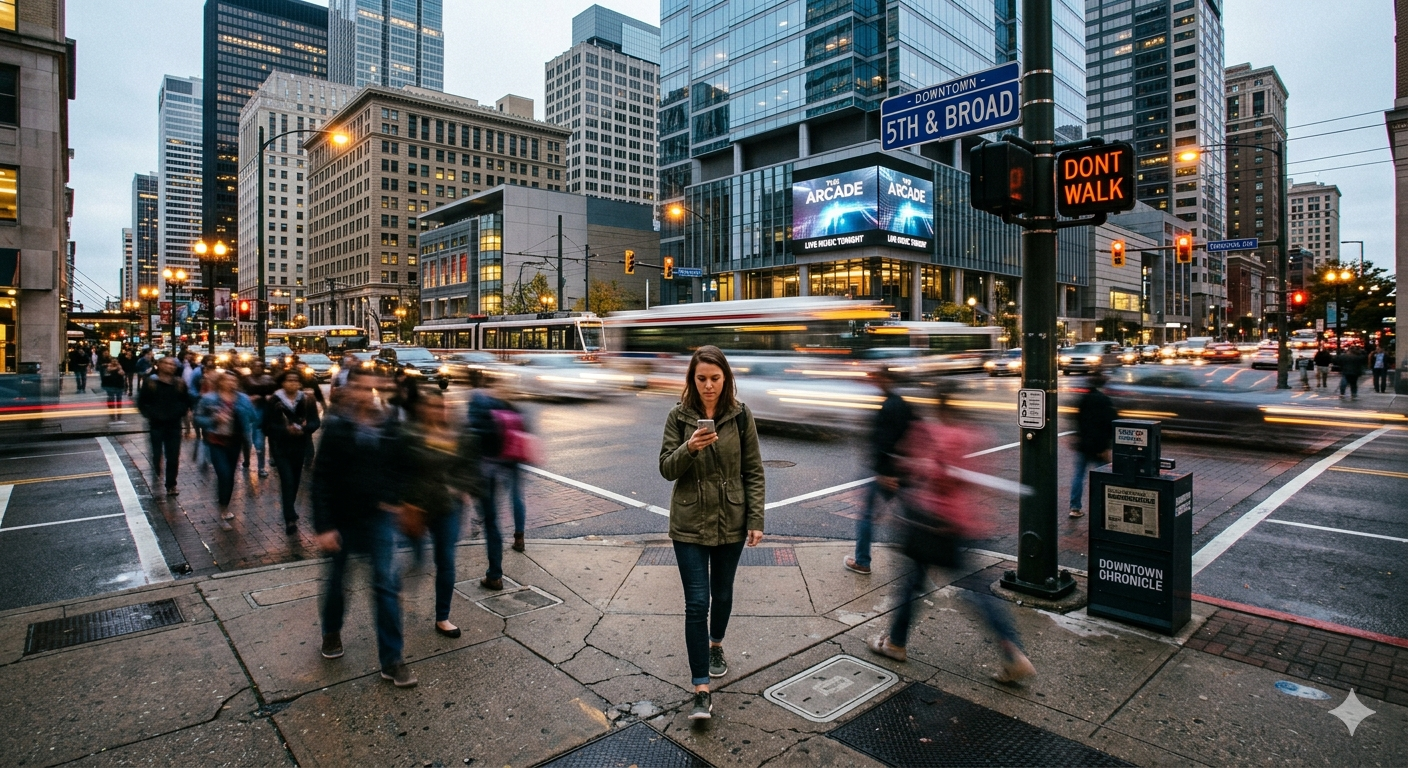
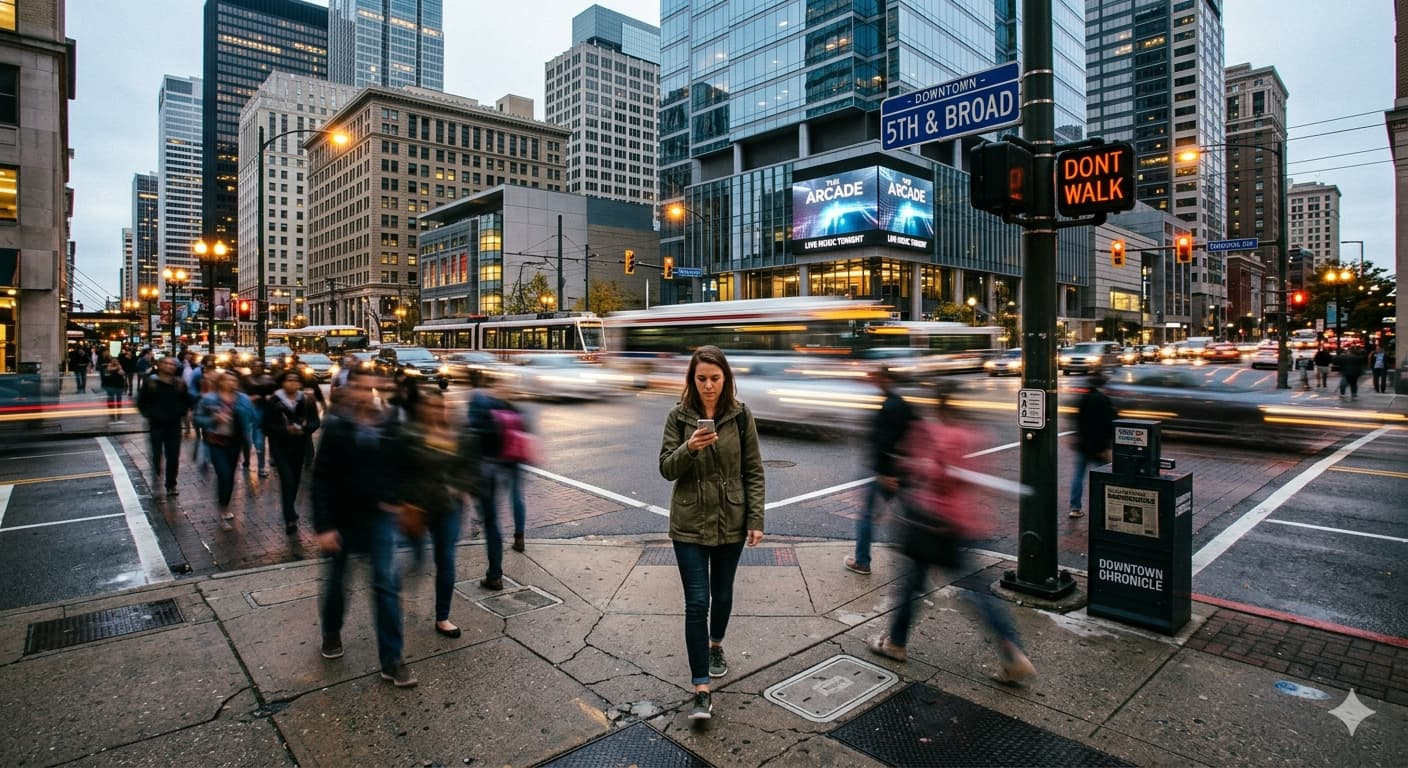
Sunday 3

diff --git a/css/widescreen.css b/css/widescreen.css
@@ -7,7 +7,7 @@ html {
 body {
   float: center;
   margin: 0;
-  max-width: 900px;
+  max-width: 840px;
   margin-left: auto;
   margin-right: auto;
   line-height: 27px;
@@ -116,7 +116,7 @@ p a:hover {
   line-height: 1.7em;
   color: #36454F;
   max-width: 158px;
-  margin-right: -25px;
+  margin-right: -15px;
 }
 
 .sidenav a {
@@ -136,16 +136,16 @@ text-decoration: none;
 
 /*recent posts title*/
 .navtitle {
-  font-size: 15px;
+  font-size: 16px;
   line-height: 2.3em;
   font-family: 'Playfair Display', sans-serif !important;
   font-weight: 700;
-    color: #5E5E5E;
-
+  color: #5E5E5E;
+  margin-bottom: 5px;
 }
 
 .navtitle-earlier {
-  font-size: 14.5px;
+  font-size: 16px;
   line-height: 2.1em;
   font-family: 'Playfair Display', sans-serif !important;
   font-weight: 700;
@@ -234,10 +234,10 @@ color: #007AFC;
 
 img[alt$="^"] {
   display: block;
-  max-width: 70%;
+  max-width: 95%;
   box-shadow: 0 0 10px .2px grey;
   border-radius: 5px;
-  margin-bottom: 37px;
+  margin-bottom: 35px;
   margin-top: 10px;
 }
 
@@ -304,7 +304,7 @@ img[alt$="*"] {
 }
 
 .post-content {
-  padding: 35px 230px 10px 5px;
+  padding: 35px 210px 10px 5px;
   float: center;
   margin-left: auto;
   margin-right: auto;
@@ -321,7 +321,7 @@ img[alt$="*"] {
 }
 
 .read-more {
-    font-size: 15px !important;
+    font-size: 19px !important;
 }
 
 .post-title {
@@ -640,8 +640,8 @@ text-decoration: none;
 
 /* Publications list entries */
 .pub-entry {
-  font-family: 'EB Garamond', serif;
-  font-size: 19px;
+  font-family: 'Playfair Display', serif;
+  font-size: 17px;
   line-height: 1.65em;
   color: #36454F;
   max-width: 650px;

diff --git a/css/smallscreen.css b/css/smallscreen.css
@@ -153,8 +153,8 @@ text-decoration: none;
 }
 
 /*bio-text*/
-.smallnav p {
-    font-size: 13px;
+.sidenav p {
+    font-size: 12.5px;
     color: #36454F;
     line-height: 18px;
     font-family: 'Playfair Display', serif !important;
@@ -607,8 +607,8 @@ text-decoration: none;
 
     /* Publications list entries */
     .pub-entry {
-      font-family: 'EB Garamond', serif;
-      font-size: 17px;
+      font-family: 'Playfair Display', serif;
+      font-size: 14.5px;
       line-height: 1.6em;
       color: #36454F;
       margin-bottom: 1em;

diff --git a/categories/index.html b/categories/index.html
@@ -89,7 +89,7 @@
 
 
 
-<span class="smallnav"><p>Law professor at Thompson Rivers University, writing about law, technology, and digital freedoms in Canada. More <a href="https://www.tru.ca/law/faculty-staff/faculty/robert-diab.html" style="">here</a></p></span>
+<span class="smallnav"><p>Law professor at Thompson Rivers University, writing about AI and online freedoms in Canada. More <a href="https://www.tru.ca/law/faculty-staff/faculty/robert-diab.html" style="">here</a></p></span>
 <span class="smallnav"><p>Follow this blog on <a href="https://robertdiab.substack.com" style="">Substack</a></p></span>
 <hr class="sidenav-divider">
 

diff --git a/commentary/index.html b/commentary/index.html
@@ -90,7 +90,7 @@
 
 
 
-<span class="smallnav"><p>Law professor at Thompson Rivers University, writing about law, technology, and digital freedoms in Canada. More <a href="https://www.tru.ca/law/faculty-staff/faculty/robert-diab.html" style="">here</a></p></span>
+<span class="smallnav"><p>Law professor at Thompson Rivers University, writing about AI and online freedoms in Canada. More <a href="https://www.tru.ca/law/faculty-staff/faculty/robert-diab.html" style="">here</a></p></span>
 <span class="smallnav"><p>Follow this blog on <a href="https://robertdiab.substack.com" style="">Substack</a></p></span>
 <hr class="sidenav-divider">
 

diff --git a/harbinger/index.html b/harbinger/index.html
@@ -90,7 +90,7 @@
 
 
 
-<span class="smallnav"><p>Law professor at Thompson Rivers University, writing about law, technology, and digital freedoms in Canada. More <a href="https://www.tru.ca/law/faculty-staff/faculty/robert-diab.html" style="">here</a></p></span>
+<span class="smallnav"><p>Law professor at Thompson Rivers University, writing about AI and online freedoms in Canada. More <a href="https://www.tru.ca/law/faculty-staff/faculty/robert-diab.html" style="">here</a></p></span>
 <span class="smallnav"><p>Follow this blog on <a href="https://robertdiab.substack.com" style="">Substack</a></p></span>
 <hr class="sidenav-divider">
 

diff --git a/index.html b/index.html
@@ -92,7 +92,7 @@
 
 
 
-<span class="smallnav"><p>Law professor at Thompson Rivers University, writing about law, technology, and digital freedoms in Canada. More <a href="https://www.tru.ca/law/faculty-staff/faculty/robert-diab.html" style="">here</a></p></span>
+<span class="smallnav"><p>Law professor at Thompson Rivers University, writing about AI and online freedoms in Canada. More <a href="https://www.tru.ca/law/faculty-staff/faculty/robert-diab.html" style="">here</a></p></span>
 <span class="smallnav"><p>Follow this blog on <a href="https://robertdiab.substack.com" style="">Substack</a></p></span>
 <hr class="sidenav-divider">
 

diff --git a/news/index.html b/news/index.html
@@ -91,7 +91,7 @@
 
 
 
-<span class="smallnav"><p>Law professor at Thompson Rivers University, writing about law, technology, and digital freedoms in Canada. More <a href="https://www.tru.ca/law/faculty-staff/faculty/robert-diab.html" style="">here</a></p></span>
+<span class="smallnav"><p>Law professor at Thompson Rivers University, writing about AI and online freedoms in Canada. More <a href="https://www.tru.ca/law/faculty-staff/faculty/robert-diab.html" style="">here</a></p></span>
 <span class="smallnav"><p>Follow this blog on <a href="https://robertdiab.substack.com" style="">Substack</a></p></span>
 <hr class="sidenav-divider">
 

diff --git a/news/newstest/index.html b/news/newstest/index.html
@@ -90,7 +90,7 @@
 
 
 
-<span class="smallnav"><p>Law professor at Thompson Rivers University, writing about law, technology, and digital freedoms in Canada. More <a href="https://www.tru.ca/law/faculty-staff/faculty/robert-diab.html" style="">here</a></p></span>
+<span class="smallnav"><p>Law professor at Thompson Rivers University, writing about AI and online freedoms in Canada. More <a href="https://www.tru.ca/law/faculty-staff/faculty/robert-diab.html" style="">here</a></p></span>
 <span class="smallnav"><p>Follow this blog on <a href="https://robertdiab.substack.com" style="">Substack</a></p></span>
 <hr class="sidenav-divider">
 

diff --git a/posts/ai-alarmism/index.html b/posts/ai-alarmism/index.html
@@ -90,7 +90,7 @@
 
 
 
-<span class="smallnav"><p>Law professor at Thompson Rivers University, writing about law, technology, and digital freedoms in Canada. More <a href="https://www.tru.ca/law/faculty-staff/faculty/robert-diab.html" style="">here</a></p></span>
+<span class="smallnav"><p>Law professor at Thompson Rivers University, writing about AI and online freedoms in Canada. More <a href="https://www.tru.ca/law/faculty-staff/faculty/robert-diab.html" style="">here</a></p></span>
 <span class="smallnav"><p>Follow this blog on <a href="https://robertdiab.substack.com" style="">Substack</a></p></span>
 <hr class="sidenav-divider">
 

diff --git a/posts/ai-liability/index.html b/posts/ai-liability/index.html
@@ -90,7 +90,7 @@
 
 
 
-<span class="smallnav"><p>Law professor at Thompson Rivers University, writing about law, technology, and digital freedoms in Canada. More <a href="https://www.tru.ca/law/faculty-staff/faculty/robert-diab.html" style="">here</a></p></span>
+<span class="smallnav"><p>Law professor at Thompson Rivers University, writing about AI and online freedoms in Canada. More <a href="https://www.tru.ca/law/faculty-staff/faculty/robert-diab.html" style="">here</a></p></span>
 <span class="smallnav"><p>Follow this blog on <a href="https://robertdiab.substack.com" style="">Substack</a></p></span>
 <hr class="sidenav-divider">
 

diff --git a/posts/authorship-ai/index.html b/posts/authorship-ai/index.html
@@ -90,7 +90,7 @@
 
 
 
-<span class="smallnav"><p>Law professor at Thompson Rivers University, writing about law, technology, and digital freedoms in Canada. More <a href="https://www.tru.ca/law/faculty-staff/faculty/robert-diab.html" style="">here</a></p></span>
+<span class="smallnav"><p>Law professor at Thompson Rivers University, writing about AI and online freedoms in Canada. More <a href="https://www.tru.ca/law/faculty-staff/faculty/robert-diab.html" style="">here</a></p></span>
 <span class="smallnav"><p>Follow this blog on <a href="https://robertdiab.substack.com" style="">Substack</a></p></span>
 <hr class="sidenav-divider">
 

diff --git a/posts/bill-c22/index.html b/posts/bill-c22/index.html
@@ -90,7 +90,7 @@
 
 
 
-<span class="smallnav"><p>Law professor at Thompson Rivers University, writing about law, technology, and digital freedoms in Canada. More <a href="https://www.tru.ca/law/faculty-staff/faculty/robert-diab.html" style="">here</a></p></span>
+<span class="smallnav"><p>Law professor at Thompson Rivers University, writing about AI and online freedoms in Canada. More <a href="https://www.tru.ca/law/faculty-staff/faculty/robert-diab.html" style="">here</a></p></span>
 <span class="smallnav"><p>Follow this blog on <a href="https://robertdiab.substack.com" style="">Substack</a></p></span>
 <hr class="sidenav-divider">
 